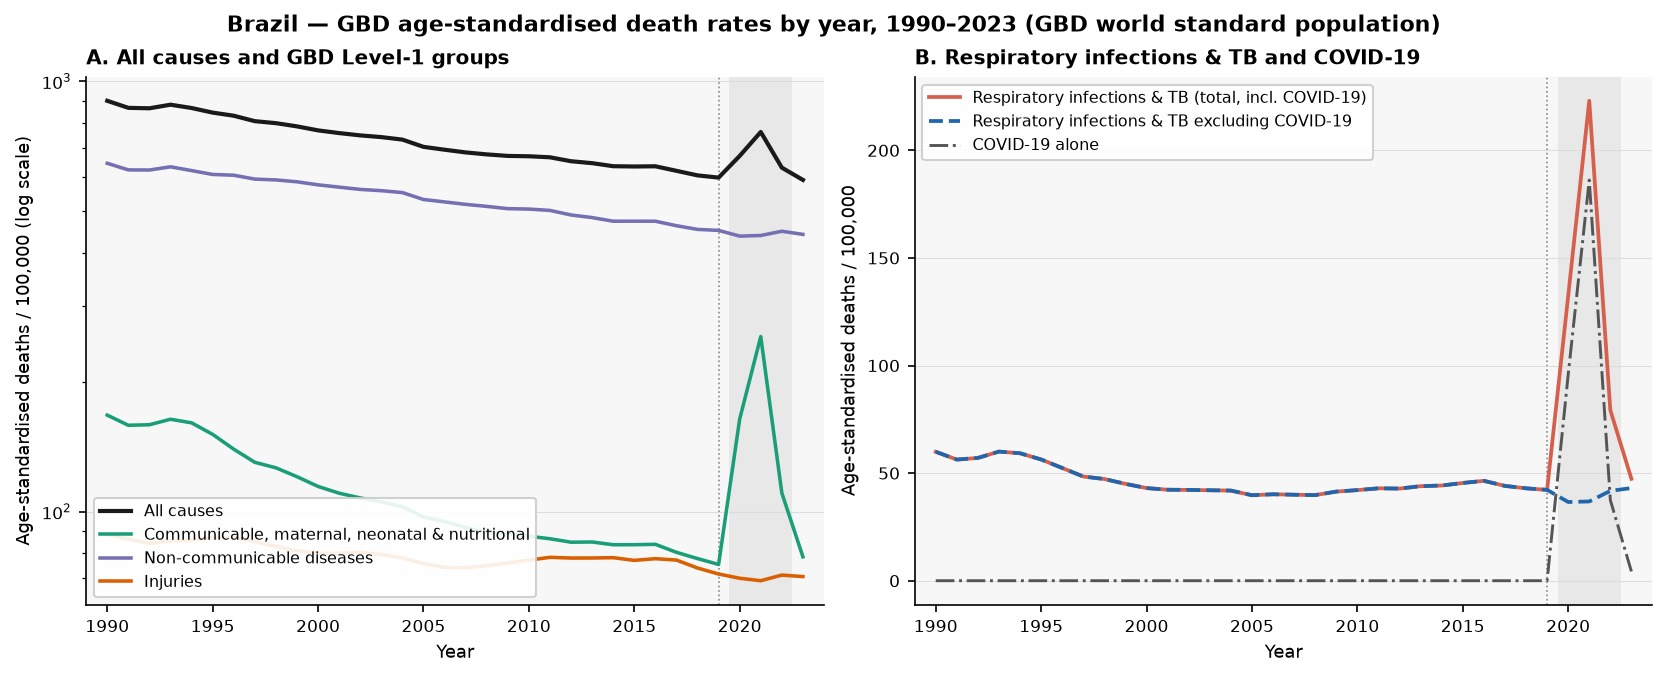
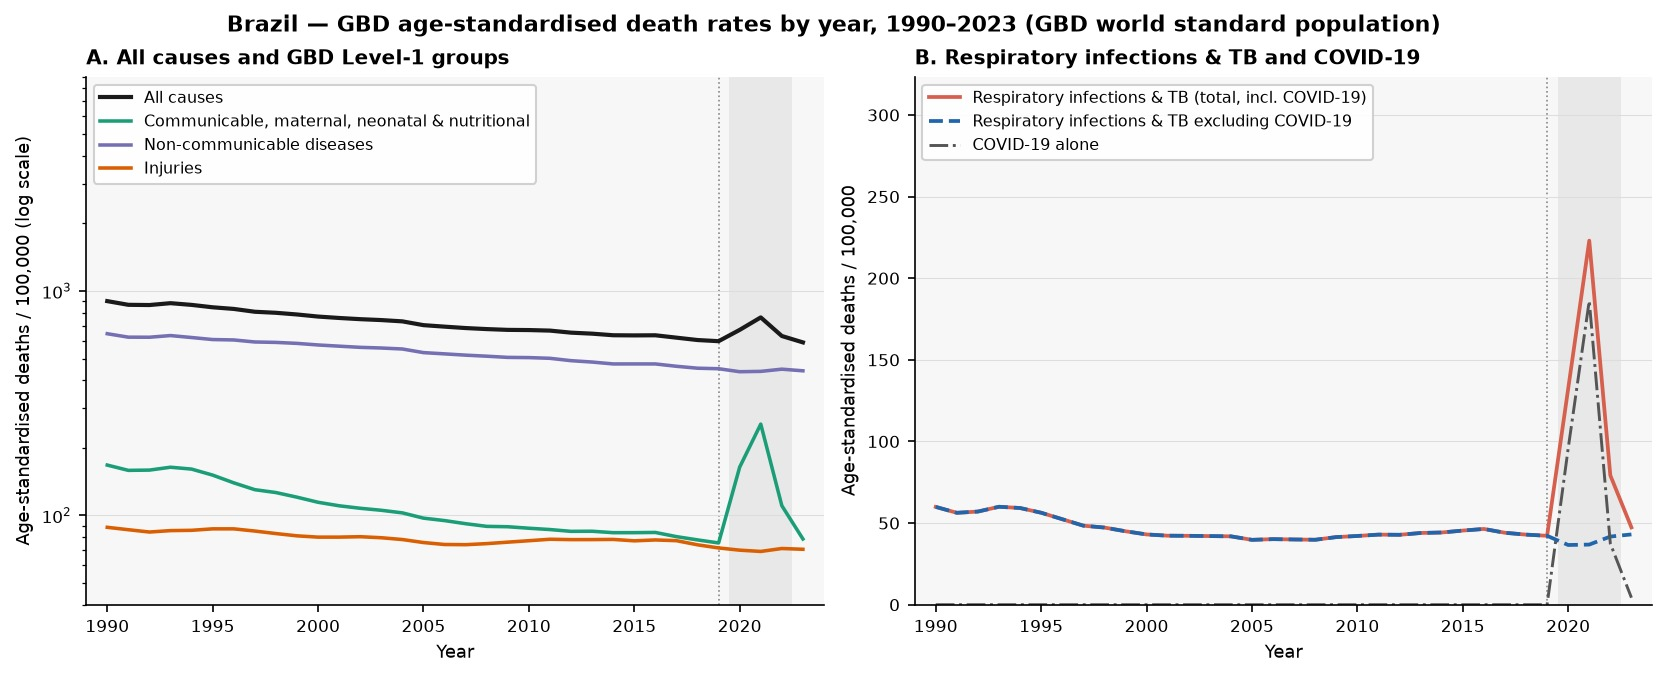
Adjust headroom and legend placement in trajectory and self-harm figures

diff --git a/scripts/figures.py b/scripts/figures.py
@@ -209,10 +209,13 @@ def make_trajectory_figure(outpath):
     for name, causes in LEVEL1_GROUPS.items():
         ax1.plot(yrs, group_asr(causes), color=palette[name], lw=1.7, label=name)
     ax1.set_yscale("log")
+    # Extra headroom (about half a decade) so the legend sits above all lines.
+    ax1.set_ylim(40, 9000)
     ax1.set_ylabel("Age-standardised deaths / 100,000 (log scale)", fontsize=8.5)
     ax1.set_title("A. All causes and GBD Level-1 groups", fontsize=9.5,
                   fontweight="bold", loc="left")
-    ax1.legend(fontsize=7.5, framealpha=0.9, edgecolor="#cccccc", loc="lower left")
+    ax1.legend(fontsize=7.5, framealpha=0.9, edgecolor="#cccccc",
+               loc="upper left", ncol=1)
 
     # Panel B: respiratory infections & TB with and without COVID-19.
     resp = "Respiratory infections and tuberculosis"
@@ -222,6 +225,7 @@ def make_trajectory_figure(outpath):
     ax2.plot(yrs, r_tot - covid, color=BLUE, lw=1.8, ls="--",
              label="Respiratory infections & TB excluding COVID-19")
     ax2.plot(yrs, covid, color="#555555", lw=1.4, ls="-.", label="COVID-19 alone")
+    ax2.set_ylim(0, r_tot.max() * 1.45)
     ax2.set_ylabel("Age-standardised deaths / 100,000", fontsize=8.5)
     ax2.set_title("B. Respiratory infections & TB and COVID-19", fontsize=9.5,
                   fontweight="bold", loc="left")
@@ -271,9 +275,11 @@ def make_selfharm_figure(outpath):
     # Conflict and terrorism is omitted from the plot: essentially zero
     # throughout (it is included in the Level-2 total).
     ax.set_yscale("log")
-    ax.set_ylim(0.1, 80)
+    # Extra headroom so the legend sits above the Level-2 total line.
+    ax.set_ylim(0.1, 600)
     ax.set_ylabel("Age-standardised deaths / 100,000 (log scale)", fontsize=8.5)
-    ax.legend(fontsize=7.5, framealpha=0.9, edgecolor="#cccccc", loc="lower left")
+    ax.legend(fontsize=7.5, framealpha=0.9, edgecolor="#cccccc",
+              loc="upper left", ncol=2)
     ax.set_title("Brazil — Self-harm and interpersonal violence and its Level-3 components,\n"
                  "GBD age-standardised death rates by year, 1990–2023 (GBD world standard; shading = 95% UI)",
                  fontsize=9.5, fontweight="bold", loc="left")
